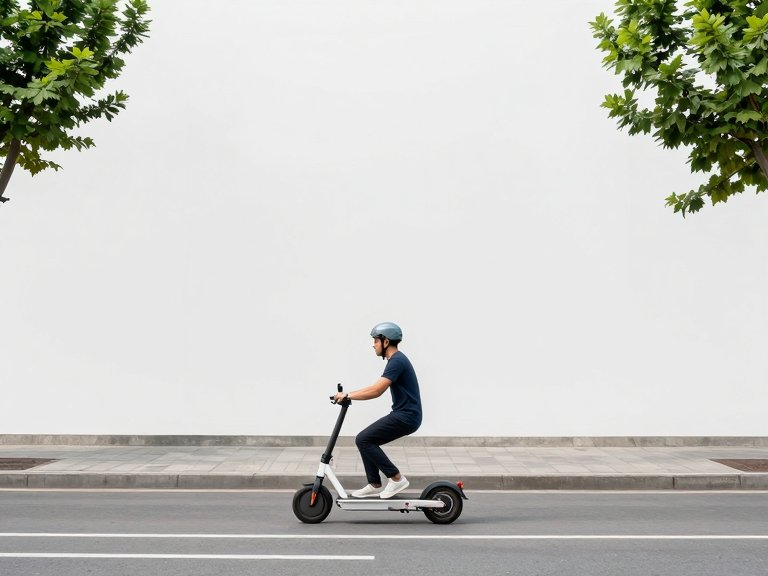
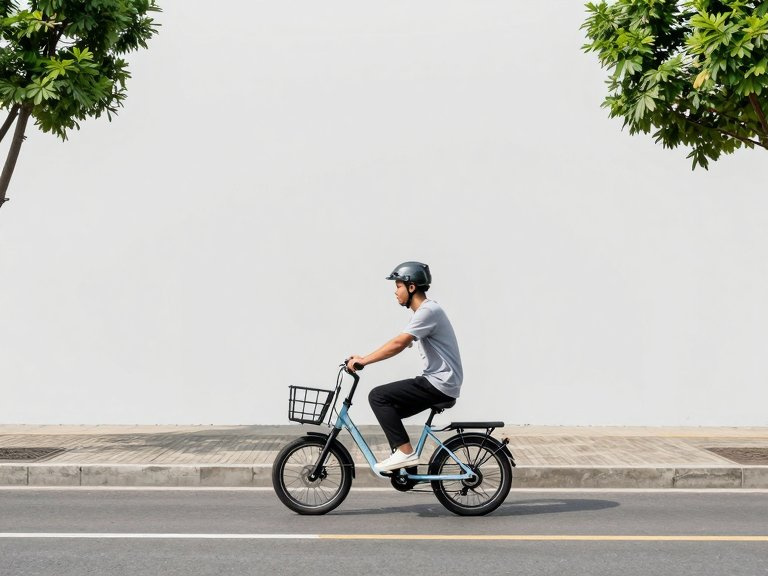
新HSK 4: finish pictures, speaking pictures and listening time estimate

Changed region(s): [[0.0, 0.4375, 1.0, 0.9688], [0.75, 0.0, 1.0, 0.375], [0.0, 0.0, 0.2188, 0.3438]]

diff --git a/site/app.js b/site/app.js
@@ -519,8 +519,8 @@ async function renderHome(level) {
   ATTEMPTS = await api("/api/attempts").catch(() => []);
   const saved = recall("hsk-exam");
   const tabs = LEVELS.map((l) => `<a href="#/${l.level}" class="tab ${l.level === CFG.level ? "on" : ""}">${esc(l.short)}</a>`).join("");
-  const mins = (k) => { const s = sectionCfg(k); return s.minutes ? `${(s.readMinutes || 0) + s.minutes} min` : "~30 min"; };
-  const total = CFG.sections.reduce((s, x) => s + (x.minutes ? x.minutes + (x.readMinutes || 0) : 35), 0);
+  const mins = (k) => { const s = sectionCfg(k); return s.minutes ? `${(s.readMinutes || 0) + s.minutes} min` : `~${s.approxMinutes || 30} min`; };
+  const total = CFG.sections.reduce((s, x) => s + (x.minutes ? x.minutes + (x.readMinutes || 0) : x.approxMinutes || 35), 0);
   let html = `<nav class="tabs">${tabs}</nav><h1>${esc(CFG.name)}模拟考试</h1>
     <p class="muted">每次随机组卷 · every paper is drawn at random from the bank, preferring questions you haven't seen. Bank ≈ ${papersAvailable()} full papers.</p>${CFG.note ? `<p class="small muted">${esc(CFG.note)}</p>` : ""}`;
   if (saved) html += `<div class="notice">有一份未完成的试卷 · You have an unfinished ${esc((LEVELS.find((l) => l.level === saved.level) || {}).short || "")} paper (${esc(saved.mode)}). <button class="btn small" id="resume">继续 Resume</button> <button class="btn small" id="discard">放弃 Discard</button></div>`;
@@ -680,8 +680,8 @@ async function renderExamDay(level) {
     try { exam = { ...buildPaper("full", false), examDay: true, started: false, leftCount: 0 }; } catch (err) { $("#app").innerHTML = `<div class="notice">${esc(err.message)}</div>`; return; }
     save();
   }
-  const row = (s) => `<tr><td>${esc(s.name)}</td><td>${s.count} 题</td><td>${s.minutes ? `${(s.readMinutes || 0) + s.minutes} min${s.readMinutes ? ` (阅读 ${s.readMinutes} + 写 ${s.minutes})` : ""}` : `~${sectionCfg(s.key).count > 40 ? 35 : 30} min + ${s.reviewMinutes || 3} min 检查`}</td></tr>`;
-  const total = CFG.sections.reduce((t, s) => t + (s.minutes ? s.minutes + (s.readMinutes || 0) : 35), 0);
+  const row = (s) => `<tr><td>${esc(s.name)}</td><td>${s.count} 题</td><td>${s.minutes ? `${(s.readMinutes || 0) + s.minutes} min${s.readMinutes ? ` (阅读 ${s.readMinutes} + 写 ${s.minutes})` : ""}` : `~${s.approxMinutes ? s.approxMinutes - (s.reviewMinutes || 3) : sectionCfg(s.key).count > 40 ? 35 : 30} min + ${s.reviewMinutes || 3} min 检查`}</td></tr>`;
+  const total = CFG.sections.reduce((t, s) => t + (s.minutes ? s.minutes + (s.readMinutes || 0) : s.approxMinutes || 35), 0);
   const items = [
     ["sound", "耳机或音箱已测试 · headphones/speakers tested", `<button class="btn small" id="soundTest">▶ 试音 Sound test</button>`],
     ["quiet", "安静的房间，手机静音、关闭通知 · quiet room, phone silenced, notifications off", ""],
